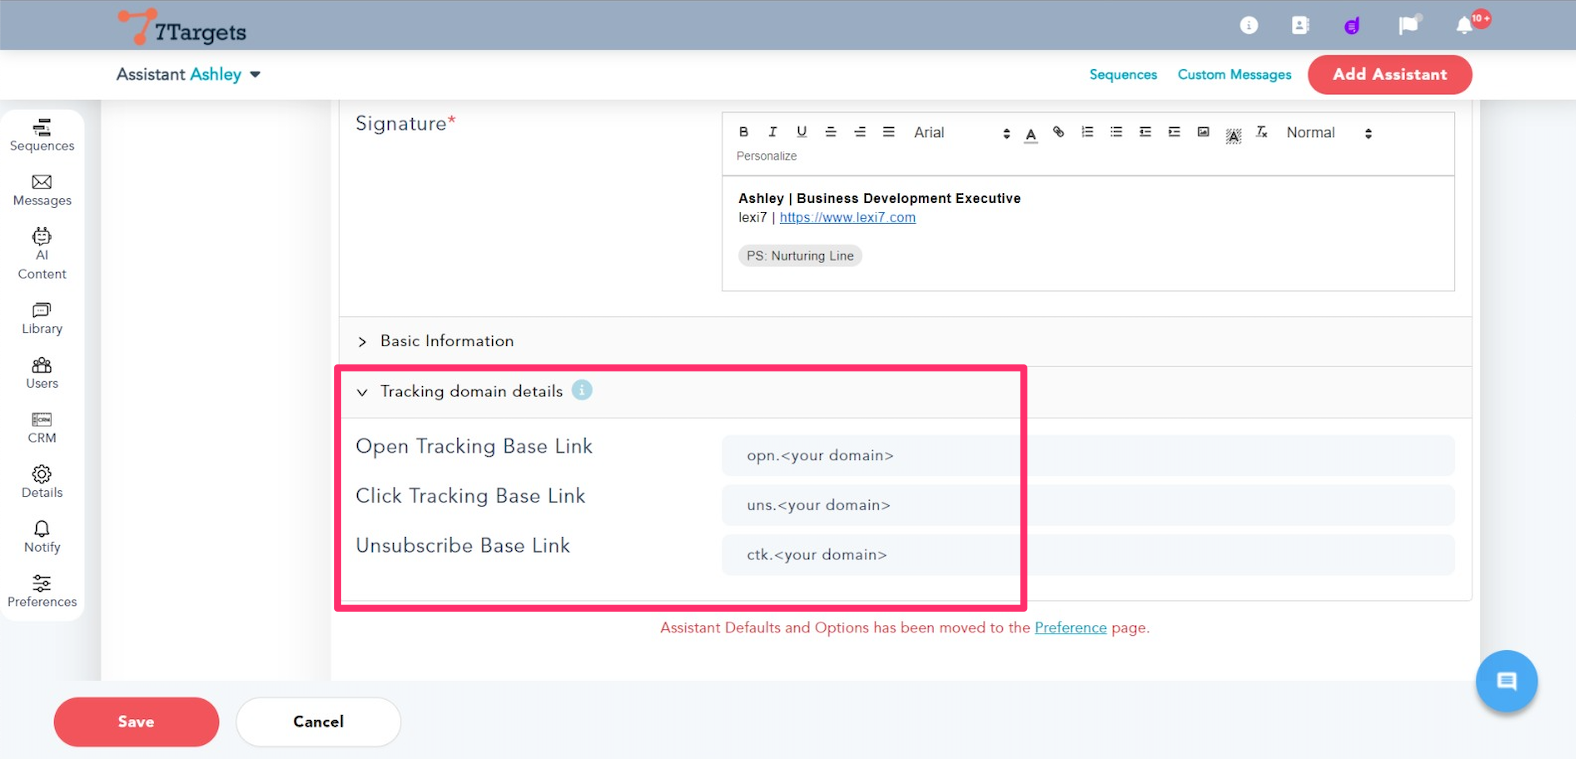
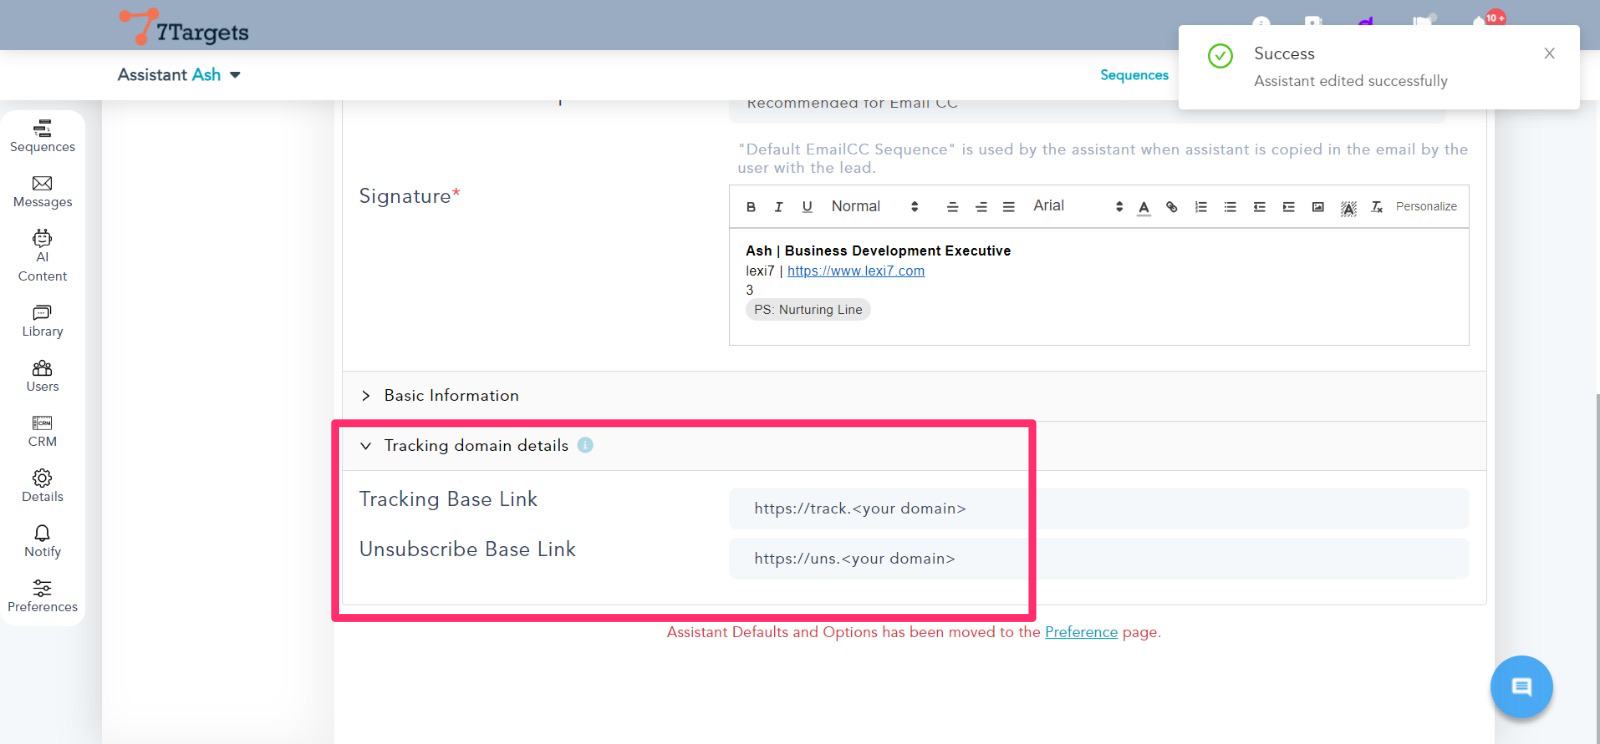
changed images/own-tracking-domain-details.png

diff --git a/_posts/2024-02-16-emails-getting-blocked-use-your-domain-urls.md b/_posts/2024-02-16-emails-getting-blocked-use-your-domain-urls.md
@@ -33,9 +33,9 @@ If you haven't set up a custom tracking domain, 7Targets uses shared tracking do
 ## Simple solution
 The solution is straightforward: Your accounts should have a tracking domain dedicated solely to your emails.
 
-Add a DNS record for your domain to create a branded tracking domain for your 7Targets Assistants using your OWN domain name. 
-
-Once above step is done, copy the tracking urls to the Assistants using Edit Assistant option. Screen shot below.
+1. Lets create a SSL certificate for your domain. Drop an email to support@7targets.com 
+1. Create CNAME records for your domain to create a branded tracking domain for your 7Targets Assistants using your OWN domain name. Take the CNAME record value from 7Targets support team 
+1. Once above steps are done, copy the tracking url to the Assistants using Edit Assistant option. Screen shot below. 
 
 This is the most crucial step you can take to boost your email deliverability and steer clear of blocking problems.
 
